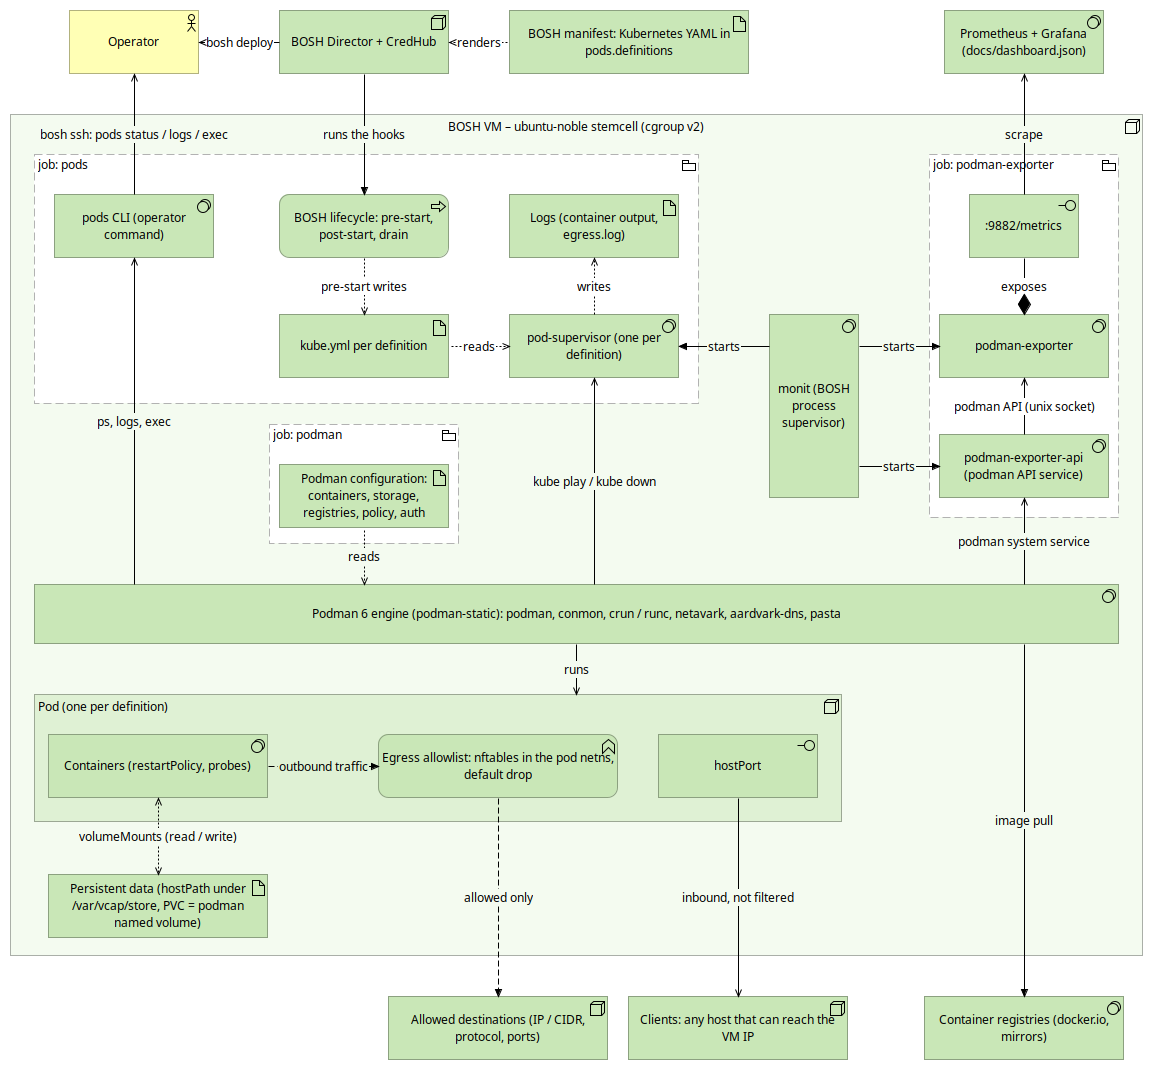
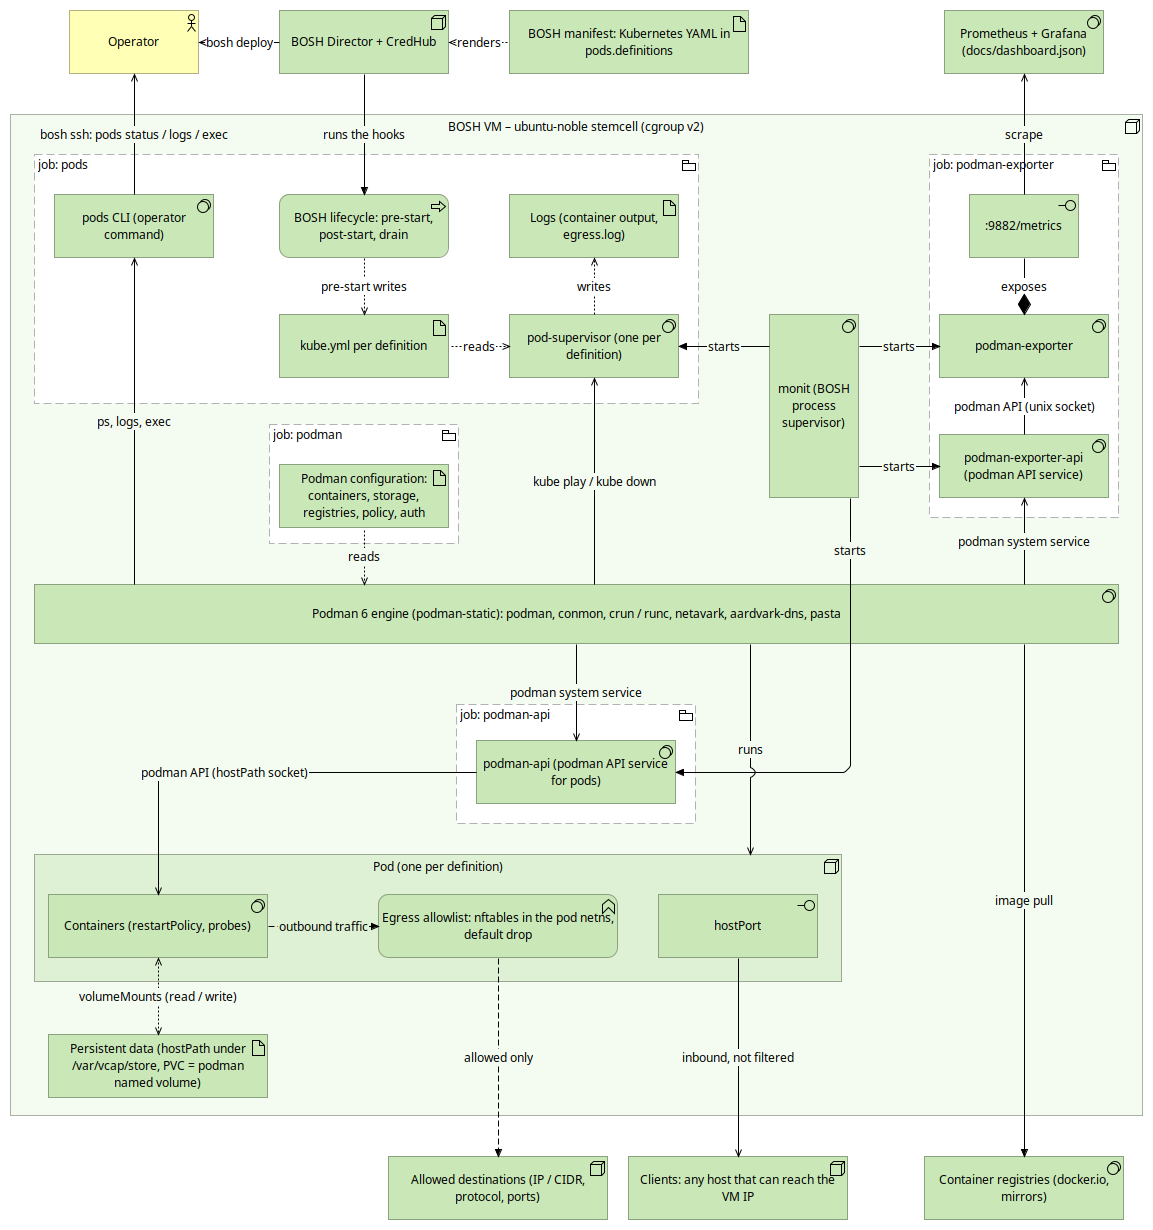
podman API service for pods (v1.4.0)

diff --git a/spec/podman_api_job_spec.rb b/spec/podman_api_job_spec.rb
@@ -1,0 +1,42 @@
+describe 'podman-api job' do
+  it 'renders a root-only socket by default' do
+    ctl = render('podman-api', 'bin/ctl', {})
+    expect(bash_syntax_ok?(ctl)).to be(true)
+    expect(ctl).to include('SOCKET_DIR=/var/vcap/sys/run/podman-api', "GROUP_GID=\n",
+                           'podman system service --time=0 "unix://$SOCKET"', 'secure_socket "$pid"',
+                           'chmod 0700 "$SOCKET_DIR"', 'chmod 0600 "$SOCKET"')
+  end
+
+  it 'opens the socket to one group' do
+    ctl = render('podman-api', 'bin/ctl', { 'podman_api' => { 'group_gid' => 2375, 'socket_dir' => '/var/vcap/sys/run/ci api' } })
+    expect(bash_syntax_ok?(ctl)).to be(true)
+    expect(ctl).to include('GROUP_GID=2375', 'SOCKET_DIR=/var/vcap/sys/run/ci\ api',
+                           'chown "root:$GROUP_GID" "$SOCKET_DIR"', 'chmod 0750 "$SOCKET_DIR"', 'chmod 0660 "$SOCKET"')
+  end
+
+  it 'rejects a non-numeric group' do
+    expect { render('podman-api', 'bin/ctl', { 'podman_api' => { 'group_gid' => 'docker' } }) }
+      .to raise_error(/group_gid must be a numeric GID/)
+  end
+
+  it 'stops the service when its socket does not appear' do
+    ctl = render('podman-api', 'bin/ctl', {})
+    body = ctl[/function secure_socket\(\) \{.*?^\}/m]
+    expect(body).to include('kill -KILL "$1"', 'rm -f "$PID_FILE"', 'exit 1')
+  end
+
+  it 'rejects an unknown action before touching the system' do
+    ctl = render('podman-api', 'bin/ctl', {})
+    [[], ['restart']].each do |argv|
+      _out, err, status = Open3.capture3('bash', '-c', ctl, 'ctl', *argv)
+      expect(status.exitstatus).to eq(1)
+      expect(err).to include('Usage: ctl {start|stop}')
+    end
+  end
+
+  it 'is one monit process with a fixed pid file' do
+    monit = render('podman-api', 'monit', {})
+    expect(monit).to include('check process podman-api', 'pidfile /var/vcap/sys/run/podman-api/podman-api.pid',
+                             'bin/ctl start"', 'bin/ctl stop"')
+  end
+end

diff --git a/docs/details.md b/docs/details.md
@@ -105,6 +105,37 @@ scrapes hang until `Limit of concurrent requests reached` - and corrupts the loc
 Every scrape lists containers and pods through the API, taking the same locks as `podman ps`: keep the scrape
 interval >= 30s.
 
+### Podman API for pods
+
+The `podman-api` job runs `podman system service` (libpod and Docker-compatible REST API) on
+`<podman_api.socket_dir>/podman.sock` (default `/var/vcap/sys/run/podman-api`), monit process `podman-api`, logs in
+`/var/vcap/sys/log/podman-api/`. A pod that starts containers itself (a CI or workflow engine, `podman --remote`,
+docker CLI with `DOCKER_HOST`) mounts the **directory** - the socket file is replaced on every restart of the service:
+
+```yaml
+- name: podman-api
+  release: pods
+  properties:
+    podman_api:
+      group_gid: 2375        # socket 0660 root:2375, directory 0750; empty = root only (0700/0600)
+# in the Pod spec:
+securityContext: { supplementalGroups: [ 2375 ] }   # pod level - ignored on a container
+volumes:
+  - { name: podman-api, hostPath: { path: /var/vcap/sys/run/podman-api, type: Directory } }
+containers:
+  - env: [ { name: CONTAINER_HOST, value: unix:///run/podman/podman.sock } ]
+    securityContext: { runAsUser: 1000 }
+    volumeMounts: [ { name: podman-api, mountPath: /run/podman } ]
+```
+
+* The socket is **root-equivalent**: a client can start privileged containers and bind-mount any host path. Use the
+  job on dedicated instances, for trusted clients only.
+* Containers started through the API are not part of a `pods` definition: no supervisor, no egress rules, no log copy.
+  Bind mounts in such containers use **host paths**: a client that passes its own files to them must see them under
+  the same path (mount the hostPath at an identical `mountPath`).
+* The client needs no podman installation: the static `/var/vcap/packages/podman/bin/podman` works as
+  `podman --remote` in any container (hostPath file mount).
+
 ### Persistent data
 
 * `hostPath` under `/var/vcap/store/...` - explicit and recommended.
@@ -221,7 +252,7 @@ pods logs <def> [-c <container>] -f --tail 100
 pods exec <def> [-c <container>] [-- <command>]
 pods describe <def>                # settings, files, containers; also: ps, egress, restart, kube (pods help)
 podman ps --pod                    # PATH, auth and bash completion come from /etc/profile.d/podman-bosh.sh
-monit summary                      # pod-<definition>, podman-exporter-api, podman-exporter processes
+monit summary                      # pod-<definition>, podman-exporter-api, podman-exporter, podman-api processes
 ```
 
 `pods` (`/usr/local/bin/pods`, root only) is a kubectl-like view of the definitions of the VM on top of podman and

diff --git a/README.md b/README.md
@@ -25,6 +25,7 @@ ArchiMate model (open with [Archi](https://www.archimatetool.com/)): [docs/archi
 | `podman`          | Podman engine configuration (no process).                                                              |
 | `pods`            | Runs the Kubernetes YAML definitions: monit process `pod-<name>` each.                                 |
 | `podman-exporter` | Prometheus metrics of containers, pods, images and volumes (`:9882/metrics`), read via the podman API. |
+| `podman-api`      | Podman API service on a unix socket for clients in pods (CI/workflow engines, `podman --remote`).       |
 
 ### Deployment
 

diff --git a/CHANGELOG.md b/CHANGELOG.md
@@ -1,5 +1,13 @@
 # Changelog
 
+## 1.4.0 (2026-11-18)
+
+### Added
+
+- `podman-api` job: podman API service (`podman system service`) on a unix socket for clients running in pods
+  (CI/workflow engines, `podman --remote`, docker CLI). Root-only by default; `podman_api.group_gid` opens it to one
+  group (directory 0750, socket 0660). See [docs/details.md](docs/details.md#podman-api-for-pods).
+
 ## 1.3.0 (2026-10-29)
 
 ### Added
